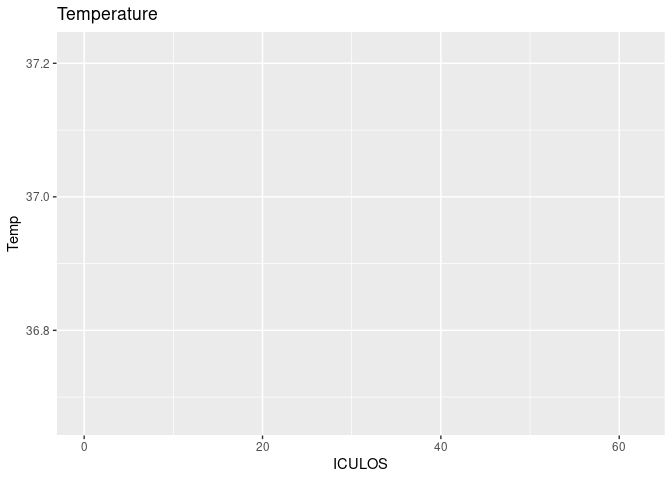
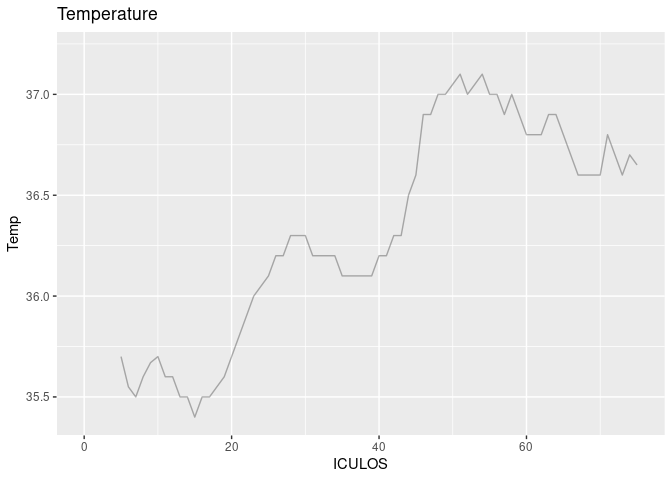
Updated report

diff --git a/A7.md b/A7.md
@@ -21,7 +21,7 @@ most_recent_data <- new_data %>%
 
 Date and time of the report
 
-    [1] "2023-04-09 18:14:20 UTC"
+    [1] "2023-04-09 19:10:16 UTC"
 
 Patient who have sepsis right now
 
@@ -29,11 +29,12 @@ Patient who have sepsis right now
 most_recent_data %>% filter(SepsisLabel == 1) %>% select(PatientID, HR, Temp, Resp)
 ```
 
-    # A tibble: 1 × 4
-    # Groups:   PatientID [1]
+    # A tibble: 2 × 4
+    # Groups:   PatientID [2]
       PatientID    HR  Temp  Resp
       <chr>     <dbl> <dbl> <dbl>
-    1 000346       73    NA    17
+    1 000346       73  NA      17
+    2 004694       82  36.6    25
 
 Plots for patients who have sepsis
 
@@ -84,53 +85,53 @@ Table <- new_data %>%
     # A tibble: 50 × 4
        PatientID diff_hr diff_temp diff_resp
        <chr>       <dbl>     <dbl>     <dbl>
-     1 000073         -4    NA             2
-     2 000135         10     0.100         0
-     3 000287         NA    NA            NA
-     4 000346        -10    NA             1
-     5 000617         NA    NA            NA
-     6 001145          1    -0.200        -2
-     7 001467        -13    NA             3
-     8 001500         -5    NA             0
-     9 001563         NA    NA            NA
-    10 001748          1    NA            -9
-    11 001851         -9    NA             1
-    12 001904         NA    NA            NA
-    13 002175        -21    NA            -1
-    14 002240        -23    NA             0
-    15 002638          1    NA             7
-    16 003133          7    NA            -1
-    17 003195         -8    NA           -17
-    18 003242          0    NA             2
-    19 003471          1    NA            NA
-    20 003492          3    NA             5
-    21 003524          7    NA            12
-    22 003550          2    NA             9
-    23 003642          3    NA             0
-    24 003683         -3    NA            -5
-    25 003823          1    NA             1
-    26 003872        -12    NA             3
-    27 003876         -2    NA            -5
-    28 003883         -3    NA             0
-    29 004089         NA    NA            NA
-    30 004246         NA    NA            NA
-    31 004331        -15    NA            -2
-    32 004694         -1    -0.100         1
-    33 004753          3     0.100         0
-    34 004853        -24    NA             0
-    35 005001         11    NA            -2
-    36 005894         16    NA             2
-    37 006520          1    NA            -1
-    38 006901          4    NA             5
-    39 007045          4    NA             0
-    40 007324         -3    NA            -3
-    41 007612        -13    NA            -7
-    42 007959         NA    NA            NA
-    43 008791          1    NA            -3
-    44 008820         -7    NA            -2
-    45 008937         26    NA            -5
-    46 009562         NA    NA            NA
-    47 009606          9    NA            21
-    48 009732          1    NA            -1
-    49 009748          3    NA            -2
-    50 009818          2    NA            -6
+     1 000073         -4   NA              2
+     2 000135         10    0.100          0
+     3 000287         NA   NA             NA
+     4 000346        -10   NA              1
+     5 000617         NA   NA             NA
+     6 001145          1   -0.200         -2
+     7 001467        -13   NA              3
+     8 001500         -5   NA              0
+     9 001563         NA   NA             NA
+    10 001748          1   NA             -9
+    11 001851         -9   NA              1
+    12 001904         NA   NA             NA
+    13 002175        -21   NA             -1
+    14 002240        -23   NA              0
+    15 002638          1   NA              7
+    16 003133          7   NA             -1
+    17 003195         -8   NA            -17
+    18 003242          0   NA              2
+    19 003471          1   NA             NA
+    20 003492          3   NA              5
+    21 003524          7   NA             12
+    22 003550          2   NA              9
+    23 003642          3   NA              0
+    24 003683         -3   NA             -5
+    25 003823          1   NA              1
+    26 003872        -12   NA              3
+    27 003876         -2   NA             -5
+    28 003883         -3   NA              0
+    29 004089         NA   NA             NA
+    30 004246         NA   NA             NA
+    31 004331        -15   NA             -2
+    32 004694         -2   -0.0500         0
+    33 004753          3    0.100          0
+    34 004853        -24   NA              0
+    35 005001         11   NA             -2
+    36 005894         16   NA              2
+    37 006520          1   NA             -1
+    38 006901          4   NA              5
+    39 007045          4   NA              0
+    40 007324         -3   NA             -3
+    41 007612        -13   NA             -7
+    42 007959         NA   NA             NA
+    43 008791          1   NA             -3
+    44 008820         -7   NA             -2
+    45 008937         26   NA             -5
+    46 009562         NA   NA             NA
+    47 009606          9   NA             21
+    48 009732          1   NA             -1
+    49 009748          3   NA             -2
+    50 009818          2   NA             -6
